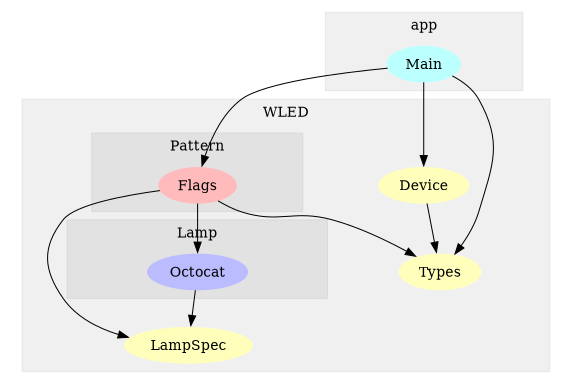
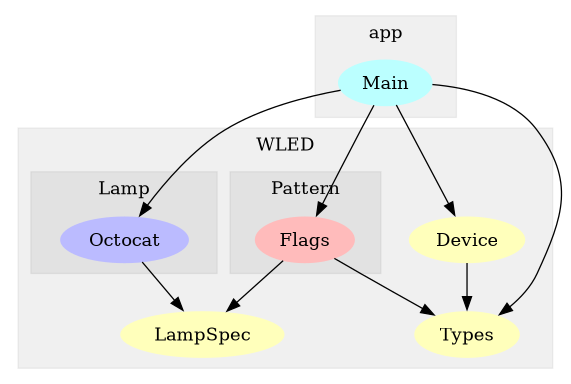
Separate lamps and patterns!

diff --git a/CHANGELOG.md b/CHANGELOG.md
@@ -6,6 +6,10 @@ The project adheres to the [Haskell Package Versioning Policy](https://pvp.haske
 
 ## Unreleased
 
+- Separate lamp specification from WLED interaction - so that own designs could be integrated.
+
+## 0.0.1.1 - Provide demonstration - 2025-03-28
+
 - Demonstration:
   - Added menu and option to change wled device URL via terminal or command line argument
   - Added tool to traverse every single LED (to be able to better detect positions)
